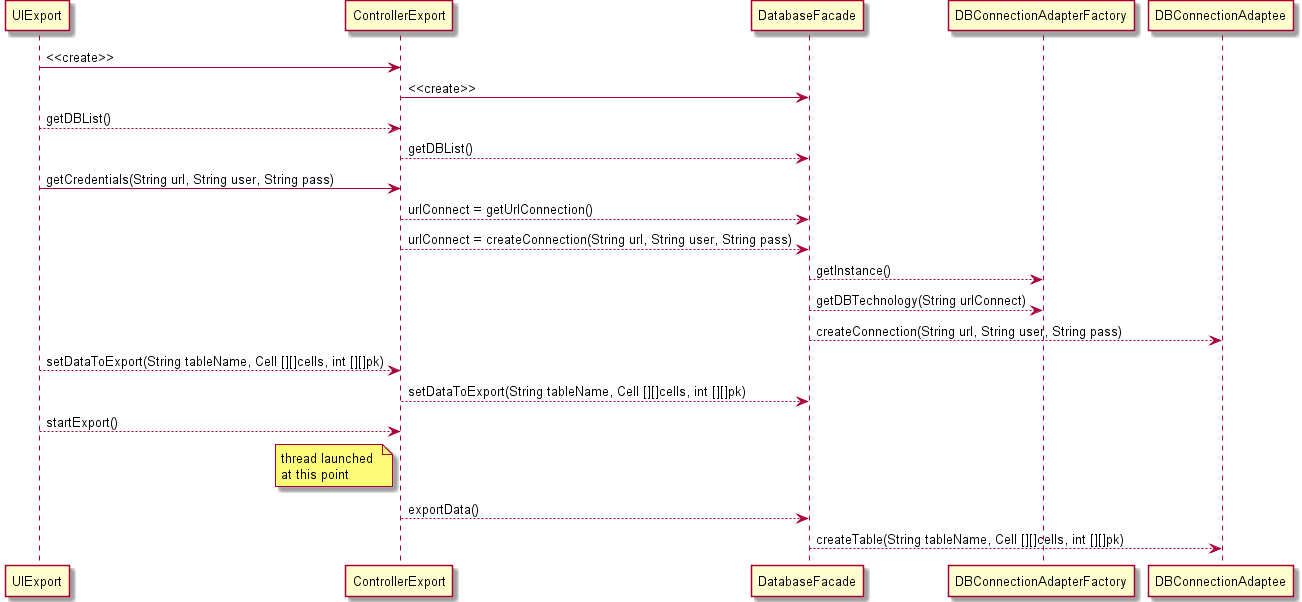
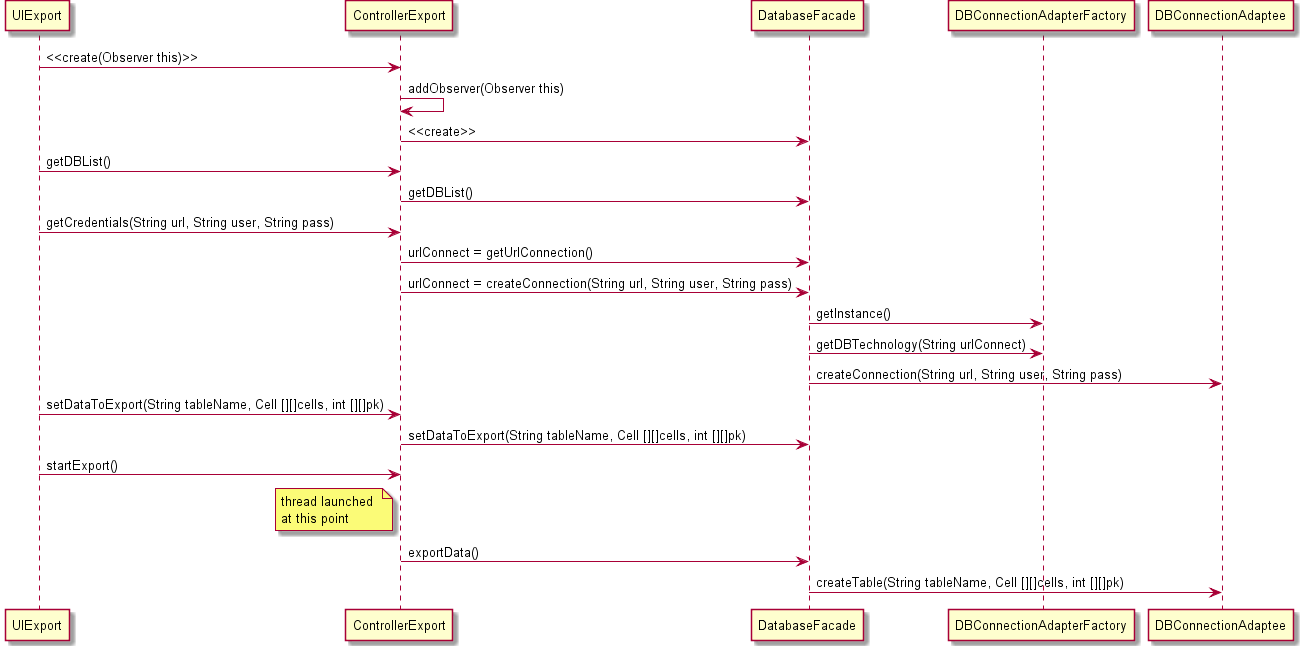
1111168: improved uc_realization with addition of observer pattern ref #5 #9

diff --git a/docs/1111168/UmlDiagrams.java b/docs/1111168/UmlDiagrams.java
@@ -65,6 +65,16 @@
  * <b>Use Case Realization - Database Export </b>
  * </p>
  * <img src="Diagrams/use_case_realization_DBexport.png">
+ *
+ * <p>
+ * <b>Use Case Realization - Database Import </b>
+ * </p>
+ * <img src="Diagrams/use_case_realization_DBimport.png">
+ *
+ * <p>
+ * <b>Use Case Realization - Database Update </b>
+ * </p>
+ * <img src="Diagrams/use_case_realization_DBupdate.png">
  */
 /*
 @startuml Diagrams/use_case.png
@@ -364,7 +374,8 @@ DBConnectionAdapter: getTableContent()
 @enduml
 
 @startuml Diagrams/use_case_realization_DBexport.png
-UIExport -> ControllerExport: <<create>>
+UIExport -> ControllerExport: <<create(Observer this)>>
+ControllerExport -> ControllerExport: addObserver(Observer this)
 ControllerExport -> DatabaseFacade: <<create>>
 UIExport -> ControllerExport: getDBList()
 ControllerExport -> DatabaseFacade: getDBList()
@@ -386,7 +397,8 @@ DatabaseFacade -> DBConnectionAdaptee: createTable(String tableName, Cell [][]ce
 @enduml
 
 @startuml Diagrams/use_case_realization_DBimport.png
-UIImport -> ControllerImport: <<create>>
+UIImport -> ControllerImport:  <<create(Observer this)>>
+ControllerImport -> ControllerImport: addObserver(Observer this)
 ControllerImport -> DatabaseFacade: <<create>>
 UIImport -> ControllerImport: getDBList()
 ControllerImport -> DatabaseFacade: getDBList()
